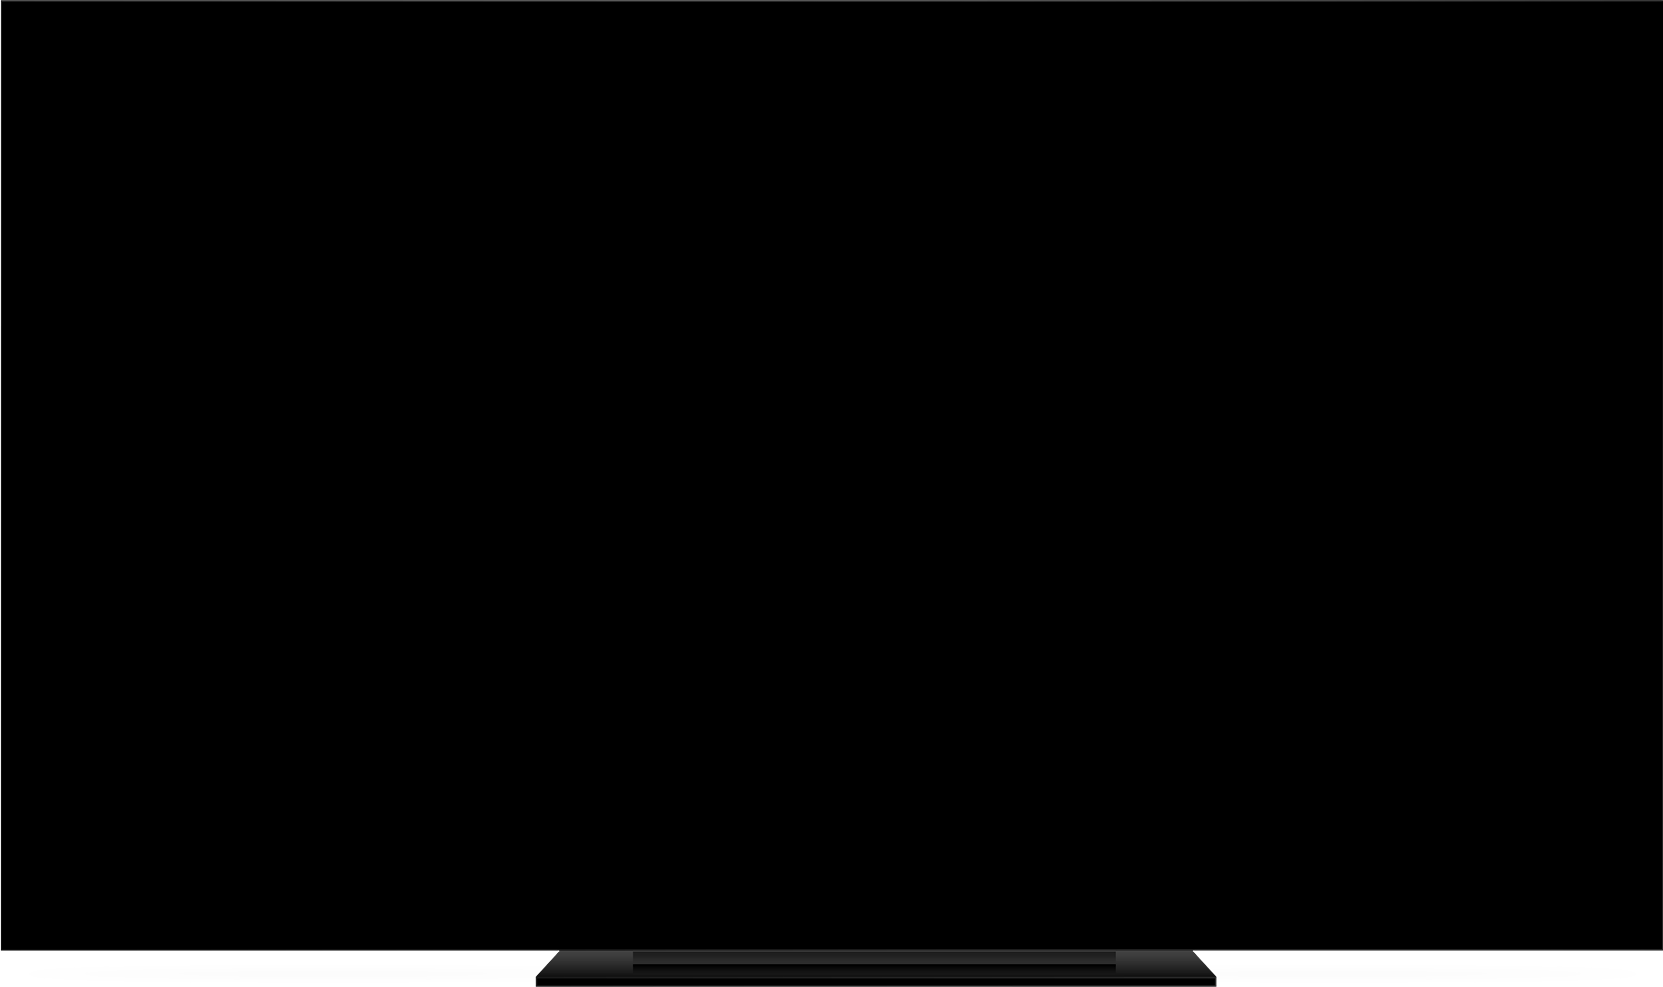
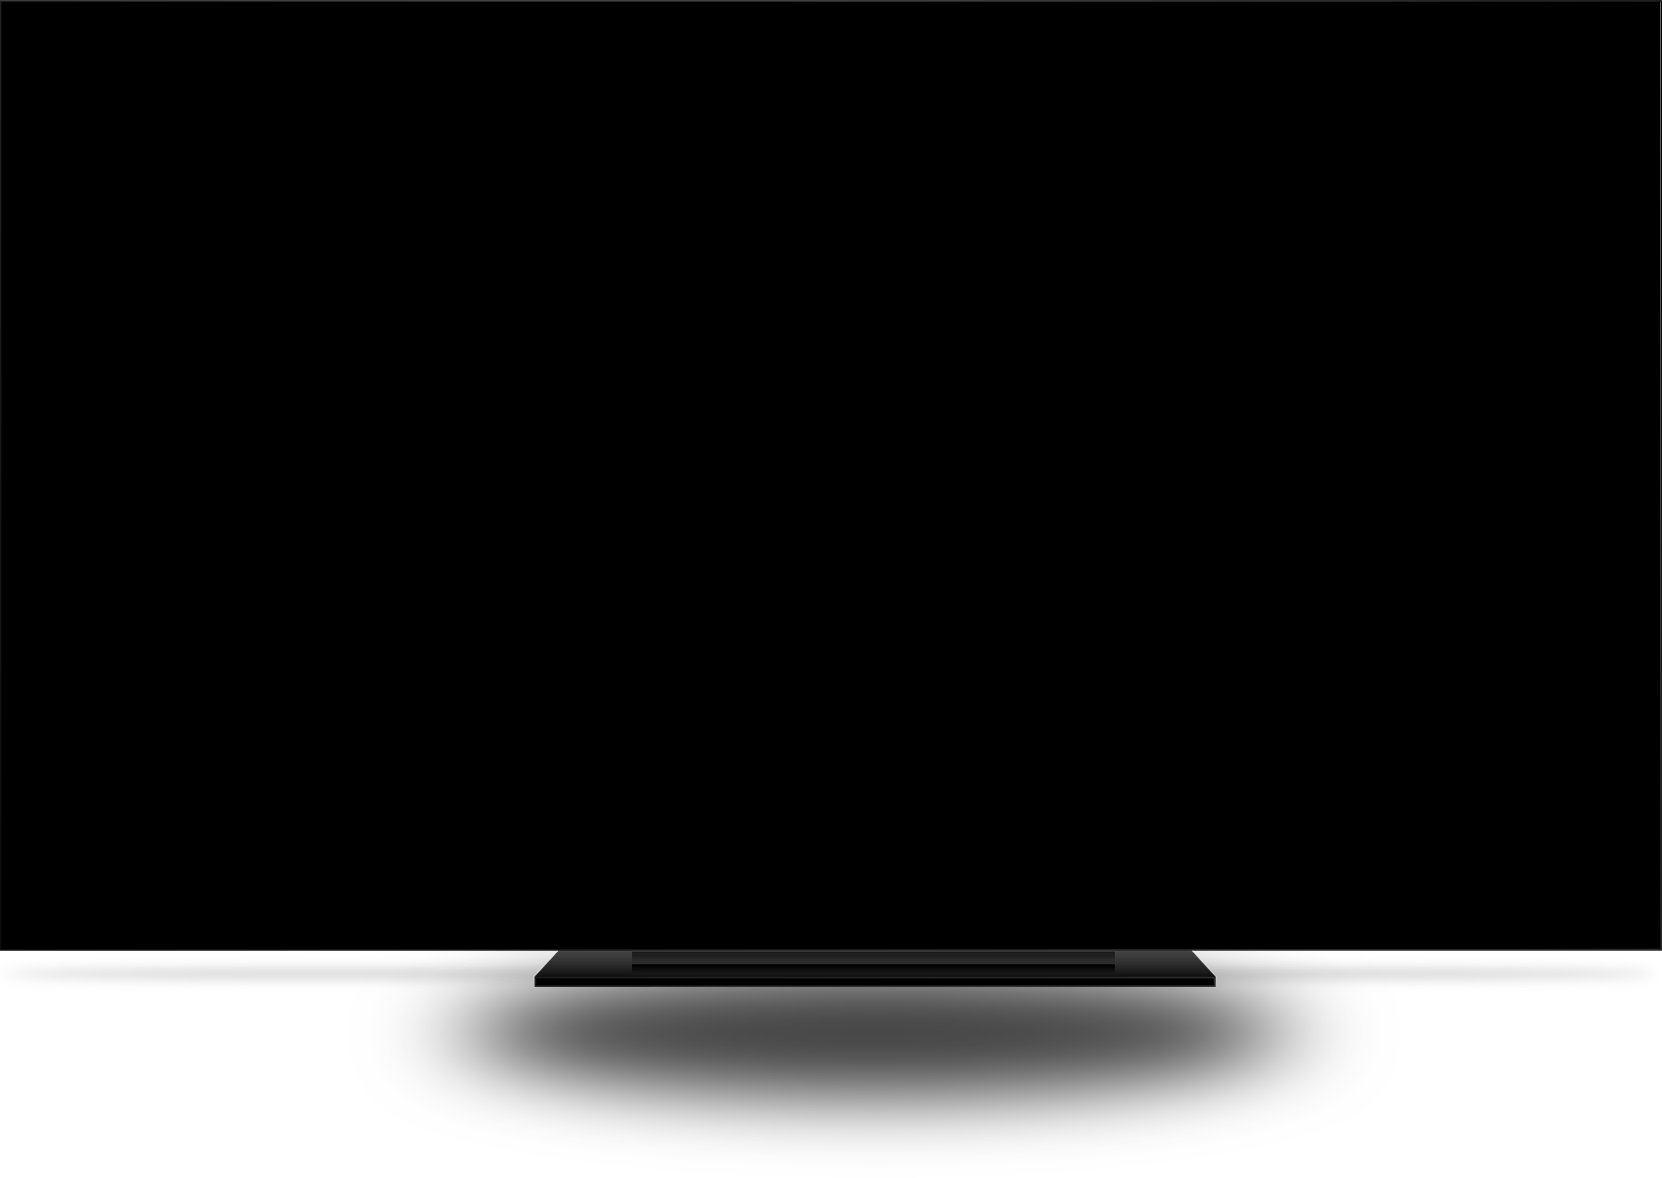
updating reel tv image

Changed region(s): [[0.0, 0.7903, 1.0, 1.0]]

diff --git a/components/blocks/Reel.vue b/components/blocks/Reel.vue
@@ -25,7 +25,7 @@ Reel
       )
         visual(
           background="contain"
-          :aspect="1663/987"
+          :aspect="1662/1178"
           :image="require(`~/assets/image/television-frame.png`)"
           @image-loaded="frameReady = true"
         )
@@ -89,9 +89,9 @@ export default {
         transform none
 
 .reel-video
-  top 1.75%
-  left 1%
-  right @left
-  bottom 5.5%
+  top 0.3%
+  left 0.3%
+  right 0.2%
+  bottom 19.6%
   height auto
 </style>
